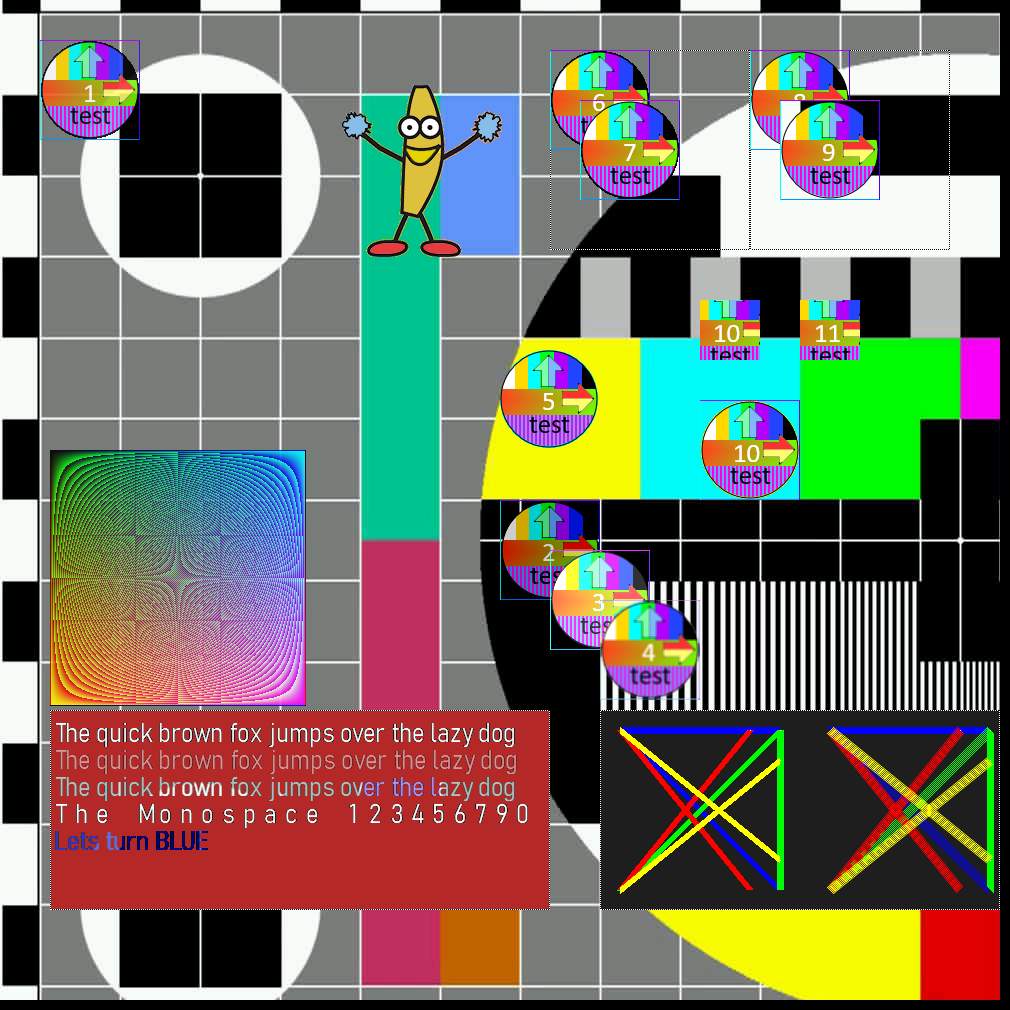
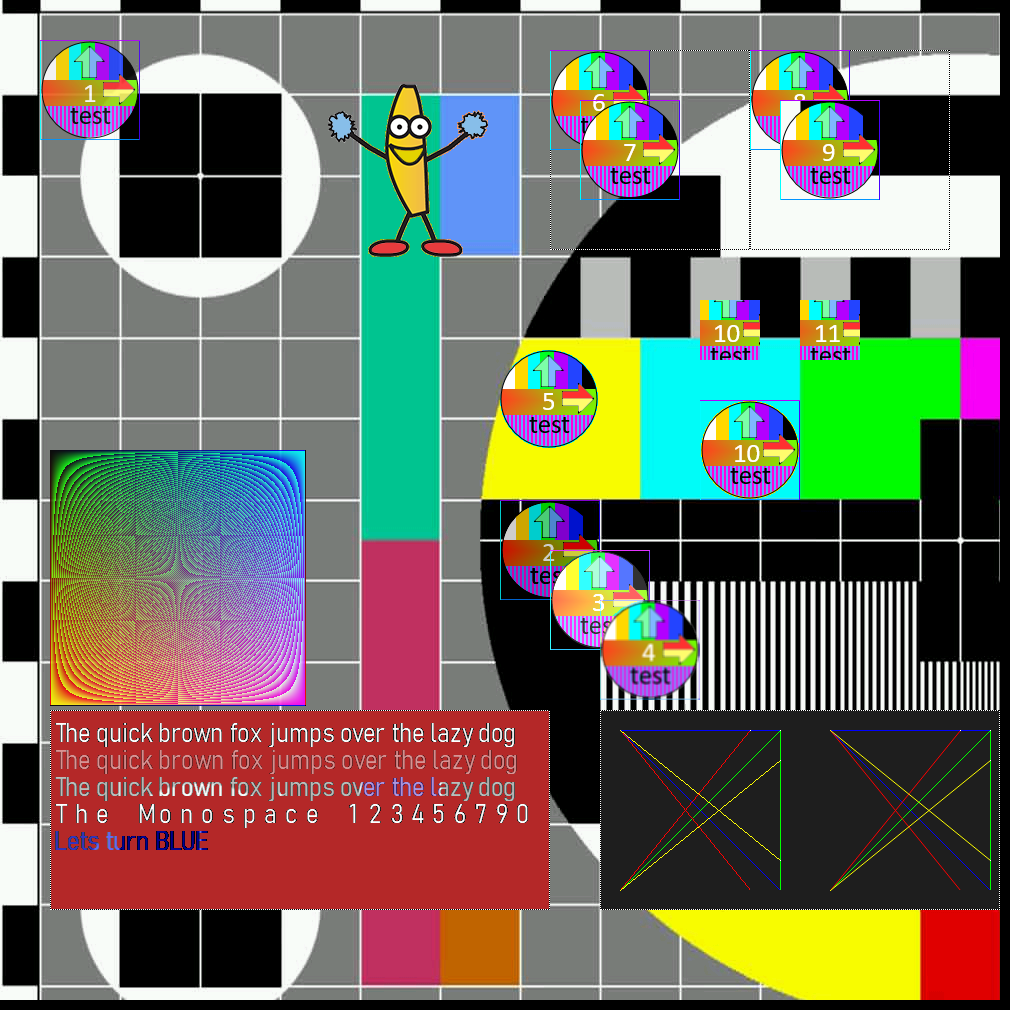
drawing primitives lines & circles

Changed region(s): [[0.6139, 0.7059, 1.0, 0.8901], [0.3069, 0.0614, 0.4911, 0.2455]]

diff --git a/examples/combined.c b/examples/combined.c
@@ -8,16 +8,99 @@
 #include "log.h"
 
 static SILLYR *fonttest,*drawing,*animation, *foreground,*background,*one,*two,*three,*test,*mirror, *ontop,*both,*bothnoblend;
+static UINT lw=1;
+
+void drawlines() {
+  printf("painting drawing...\n");
+  sil_paintLayer(drawing,30,30,30,255);
+  sil_borderFilter(drawing);
+
+  printf("drawing on it\n");
+  printf("aliased\n");
+  sil_setForegroundColor(0,0,255,255);
+  sil_drawLine(drawing,20,20,180,180);
+  sil_drawLine(drawing,20,20,180,20);
+  sil_setForegroundColor(255,255,255,255);
+  sil_drawPixel(drawing,20,20);
+
+  sil_setForegroundColor(0,255,0,255);
+  sil_drawLine(drawing,180,20,20,180);
+  sil_drawLine(drawing,180,20,180,180);
+  sil_setForegroundColor(255,255,255,255);
+  sil_drawPixel(drawing,180,20);
+
+  sil_setForegroundColor(255,0,0,255);
+  sil_drawLine(drawing,150,20,20,180);
+  sil_drawLine(drawing,20,20,150,180);
+  sil_setForegroundColor(255,255,255,255);
+  sil_drawPixel(drawing,150,20);
+  sil_drawPixel(drawing,20,20);
+
+  sil_setForegroundColor(255,255,0,255);
+  sil_drawLine(drawing,180,50,20,180);
+  sil_drawLine(drawing,180,150,20,20);
+  sil_setForegroundColor(255,255,255,255);
+  sil_drawPixel(drawing,180,50);
+  sil_drawPixel(drawing,180,150);
+
+  printf("antialiased\n");
+  printf("Blue\n");
+  sil_setForegroundColor(0,0,255,255);
+  sil_drawLineAA(drawing,210+20,20,210+180,180);
+  sil_drawLineAA(drawing,210+20,20,210+180,20);
+  sil_setForegroundColor(255,255,255,255);
+  sil_drawPixel(drawing,210+20,20);
+
+  printf("Green\n");
+  sil_setForegroundColor(0,255,0,255);
+  sil_drawLineAA(drawing,210+180,20,210+20,180);
+  sil_drawLineAA(drawing,210+180,20,210+180,180);
+  sil_setForegroundColor(255,255,255,255);
+  sil_drawPixel(drawing,210+180,20);
+
+  printf("Red\n");
+  sil_setForegroundColor(255,0,0,255);
+  sil_drawLineAA(drawing,210+150,20,210+20,180);
+  sil_drawLineAA(drawing,210+20,20,210+150,180);
+  sil_setForegroundColor(255,255,255,255);
+  sil_drawPixel(drawing,210+150,20);
+  sil_drawPixel(drawing,210+20,20);
+
+  printf("Yellow\n");
+  sil_setForegroundColor(255,255,0,255);
+  sil_drawLineAA(drawing,210+180,50,210+20,180);
+  sil_drawLineAA(drawing,210+180,150,210+20,20);
+  sil_setForegroundColor(255,255,255,255);
+  sil_drawPixel(drawing,210+180,50);
+  sil_drawPixel(drawing,210+180,150);
+  
+}
 
 UINT keyhandler(SILEVENT *event) {
   switch(event->type) {
     case SILDISP_KEY_DOWN:
-      if (SILKY_ESC==event->key) sil_quitLoop();
+      switch(event->key) {
+        case SILKY_ESC:
+          sil_quitLoop();
+          break;
+        case SILKY_UP:
+          sil_setDrawWidth(++lw);
+          drawlines();
+          return 1;
+          break;
+        case SILKY_DOWN:
+          if (lw>1) {
+            sil_setDrawWidth(--lw);
+            drawlines();
+            return 1;
+          }
+          break;
+      }
       break;
     case SILDISP_KEY_UP:
       if  (SILKY_PRINTSCREEN==event->key) {
-        log_info("Printing part of screen wxh=100x100 at 320,80");
-        sil_saveDisplay("printscreen.png",1010,1010,0,0);
+        log_info("saving screen to 'printscreen.png'");
+        sil_saveDisplay("printscreen.png",1000,1000,0,0);
       }
       break;
   }
@@ -332,68 +415,7 @@ int main() {
     printf("%s\n",sil_err2Txt(sil_getErr()));
     return 20;
   }
-  printf("painting drawing...\n");
-  sil_paintLayer(drawing,30,30,30,255);
-  sil_borderFilter(drawing);
-
-  printf("drawing on it\n");
-  printf("aliased\n");
-  sil_setForegroundColor(0,0,255,255);
-  sil_drawLine(drawing,20,20,180,180);
-  sil_drawLine(drawing,20,20,180,20);
-  sil_setForegroundColor(255,255,255,255);
-  sil_drawPixel(drawing,20,20);
-
-  sil_setForegroundColor(0,255,0,255);
-  sil_drawLine(drawing,180,20,20,180);
-  sil_drawLine(drawing,180,20,180,180);
-  sil_setForegroundColor(255,255,255,255);
-  sil_drawPixel(drawing,180,20);
-
-  sil_setForegroundColor(255,0,0,255);
-  sil_drawLine(drawing,150,20,20,180);
-  sil_drawLine(drawing,20,20,150,180);
-  sil_setForegroundColor(255,255,255,255);
-  sil_drawPixel(drawing,150,20);
-  sil_drawPixel(drawing,20,20);
-
-  sil_setForegroundColor(255,255,0,255);
-  sil_drawLine(drawing,180,50,20,180);
-  sil_drawLine(drawing,180,150,20,20);
-  sil_setForegroundColor(255,255,255,255);
-  sil_drawPixel(drawing,180,50);
-  sil_drawPixel(drawing,180,150);
-
-  printf("antialiased\n");
-  printf("Blue\n");
-  sil_setForegroundColor(0,0,255,255);
-  sil_drawLineAA(drawing,210+20,20,210+180,180);
-  sil_drawLineAA(drawing,210+20,20,210+180,20);
-  sil_setForegroundColor(255,255,255,255);
-  sil_drawPixel(drawing,210+20,20);
-
-  printf("Green\n");
-  sil_setForegroundColor(0,255,0,255);
-  sil_drawLineAA(drawing,210+180,20,210+20,180);
-  sil_drawLineAA(drawing,210+180,20,210+180,180);
-  sil_setForegroundColor(255,255,255,255);
-  sil_drawPixel(drawing,210+180,20);
-
-  printf("Red\n");
-  sil_setForegroundColor(255,0,0,255);
-  sil_drawLineAA(drawing,210+150,20,210+20,180);
-  sil_drawLineAA(drawing,210+20,20,210+150,180);
-  sil_setForegroundColor(255,255,255,255);
-  sil_drawPixel(drawing,210+150,20);
-  sil_drawPixel(drawing,210+20,20);
-
-  printf("Yellow\n");
-  sil_setForegroundColor(255,255,0,255);
-  sil_drawLineAA(drawing,210+180,50,210+20,180);
-  sil_drawLineAA(drawing,210+180,150,210+20,20);
-  sil_setForegroundColor(255,255,255,255);
-  sil_drawPixel(drawing,210+180,50);
-  sil_drawPixel(drawing,210+180,150);
+  drawlines();
 
 
 

diff --git a/src/layer.c b/src/layer.c
@@ -249,6 +249,29 @@ void sil_placeLayer(SILLYR *layer, UINT x,UINT y) {
   layer->rely=y;
   sil_setErr(SILERR_ALLOK);
 }
+/*****************************************************************************
+
+ Draw a pixel 8 times as big as normal, for drawing debug purposes
+ x,y are multiplied by 8 !
+
+ *****************************************************************************/
+
+void sil_putBigPixelLayer(SILLYR *layer, UINT x, UINT y, BYTE red, BYTE green, BYTE blue, BYTE alpha) {
+  for (int cy=0;cy<8;cy++) {
+    for (int cx=0;cx<8;cx++) {
+      sil_putPixelLayer(layer,(x*8)+cx,(y*8)+cy,red,green,blue,alpha);
+    }
+  }
+}
+
+
+void sil_blendBigPixelLayer(SILLYR *layer, UINT x, UINT y, BYTE red, BYTE green, BYTE blue, BYTE alpha) {
+  for (int cy=0;cy<8;cy++) {
+    for (int cx=0;cx<8;cx++) {
+      sil_blendPixelLayer(layer,(x*8)+cx,(y*8)+cy,red,green,blue,alpha);
+    }
+  }
+}
 
 /*****************************************************************************
   Draw a pixel on given location inside a layer
@@ -303,9 +326,10 @@ void sil_blendPixelLayer(SILLYR *layer, UINT x, UINT y, BYTE red, BYTE green, BY
       red=red*af+negaf*mixred;
       green=green*af+negaf*mixgreen;
       blue=blue*af+negaf*mixblue;
+      if (mixalpha>alpha) alpha=mixalpha;
     }
   }
-  sil_putPixelLayer(layer,x,y,red,green,blue,255);
+  sil_putPixelLayer(layer,x,y,red,green,blue,alpha);
   sil_setErr(SILERR_ALLOK);
 }
 

diff --git a/examples/draw.c b/examples/draw.c
@@ -64,6 +64,37 @@ int main() {
   sil_drawTextLayer(top,font,"blendPixel",10,240,SILTXT_KEEPCOLOR);
 
 
+  sil_setForegroundColor(0,255,0,255);
+  sil_drawBigLine(top,1,50,30,40);
+  sil_drawTextLayer(top,font,"single line no AA (x8)",10,420,SILTXT_KEEPCOLOR);
+
+  sil_drawBigLineAA(top,1,50+20,30,40+20);
+  sil_drawTextLayer(top,font,"single line with AA (x8)",10,580,SILTXT_KEEPCOLOR);
+
+  sil_setDrawWidth(5);
+  sil_drawBigLine(top,1+40,50,30+40,40);
+  sil_drawTextLayer(top,font,"linewidth=5 no AA (x8)",10+300,420,SILTXT_KEEPCOLOR);
+
+  sil_drawBigLineAA(top,1+40,50+20,30+40,40+20);
+  sil_drawTextLayer(top,font,"linewidth=5 with AA (x8)",10+300,580,SILTXT_KEEPCOLOR);
+
+  sil_setDrawWidth(1);
+  sil_drawCircle(top,80,680,50);
+  sil_drawTextLayer(top,font,"single circle, no AA",10,730,SILTXT_KEEPCOLOR);
+
+  sil_setDrawWidth(5);
+  sil_drawCircle(top,300+80,680,50);
+  sil_drawTextLayer(top,font,"linewidth=5, no AA",300+10,730,SILTXT_KEEPCOLOR);
+
+  sil_setDrawWidth(1);
+  sil_drawCircleAA(top,80,680+150,50);
+  sil_drawTextLayer(top,font,"single circle, with AA",10,730+150,SILTXT_KEEPCOLOR);
+
+  sil_setDrawWidth(5);
+  sil_drawCircleAA(top,300+80,680+150,50);
+  sil_drawTextLayer(top,font,"linewidth=5, with AA",300+10,730+150,SILTXT_KEEPCOLOR);
+
+
 
   sil_updateDisplay();
 

diff --git a/src/sil.h b/src/sil.h
@@ -150,6 +150,8 @@ SILLYR *sil_addLayer(UINT, UINT, UINT, UINT, BYTE);
 SILLYR *sil_mirrorLayer(SILLYR *, UINT, UINT);
 void sil_putPixelLayer(SILLYR *, UINT, UINT, BYTE, BYTE, BYTE, BYTE);
 void sil_blendPixelLayer(SILLYR *, UINT, UINT, BYTE, BYTE, BYTE, BYTE);
+void sil_putBigPixelLayer(SILLYR *, UINT, UINT, BYTE, BYTE, BYTE, BYTE);
+void sil_blendBigPixelLayer(SILLYR *, UINT, UINT, BYTE, BYTE, BYTE, BYTE);
 void sil_getPixelLayer(SILLYR *, UINT, UINT, BYTE *, BYTE *, BYTE *, BYTE *);
 SILLYR *sil_getBottom();
 SILLYR *sil_getTop();
@@ -280,8 +282,14 @@ void sil_setForegroundColor(BYTE,BYTE,BYTE,BYTE);
 UINT sil_saveDisplay(char *,UINT,UINT,UINT,UINT);
 void sil_drawLine(SILLYR *, UINT, UINT, UINT, UINT);
 void sil_drawLineAA(SILLYR *, UINT, UINT, UINT, UINT);
+void sil_drawBigLine(SILLYR *, UINT, UINT, UINT, UINT);
+void sil_drawBigLineAA(SILLYR *, UINT, UINT, UINT, UINT);
+void sil_drawCircle(SILLYR *, UINT, UINT, UINT);
+void sil_drawCircleAA(SILLYR *, UINT, UINT, UINT);
 void sil_drawPixel(SILLYR *, UINT, UINT);
 void sil_blendPixel(SILLYR *, UINT, UINT);
+void sil_setDrawWidth(UINT);
+UINT sil_getDrawWidth();
 
 /* x11display.c  / winSDLdisplay.c / winGDIdisplay.c / lnxdisplay.c */
 
